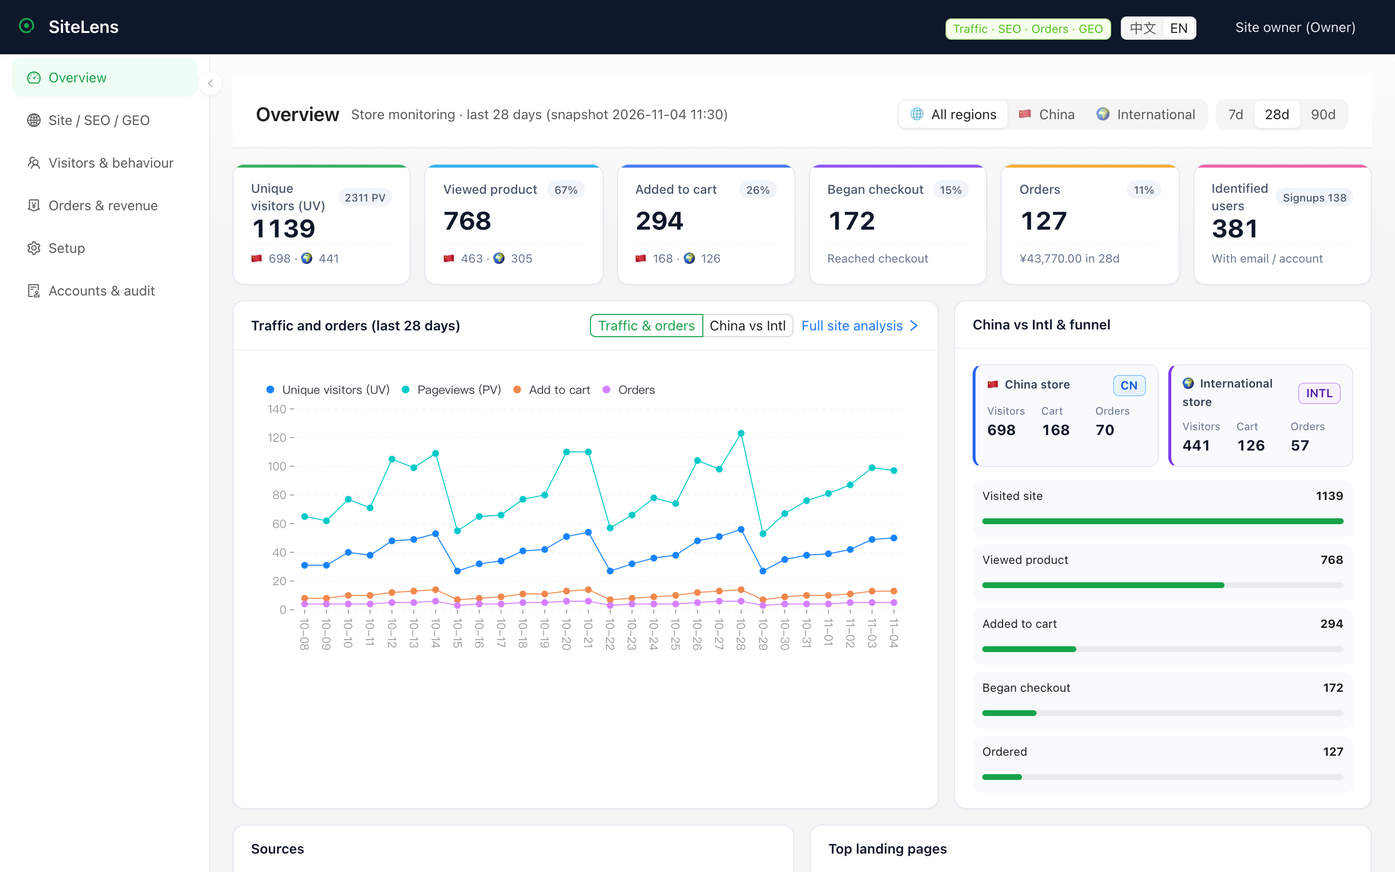
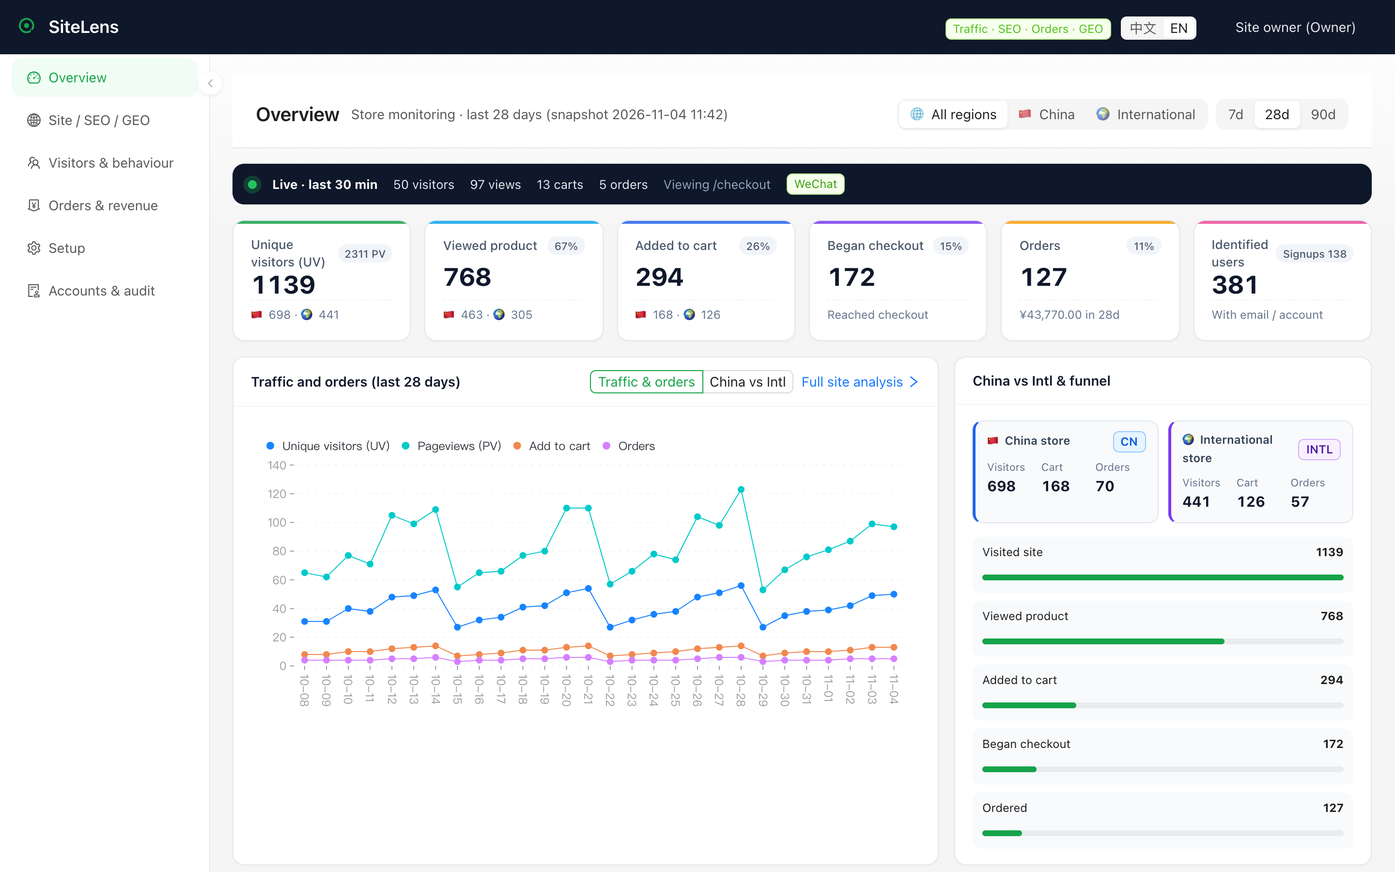
feat: realtime strip, GEO share of voice, AOV and abandoned carts
Competitor pass against Umami/Metorik/GEO trackers: the data for
realtime, competitor share of voice, average order value, repeat
buyers, and abandoned checkouts was already stored but never shown.
Surface all of it, add previous-period plumbing, a CI badge and a
one-minute Docker try-it line, and mark the shipped items on the
roadmap.

diff --git a/web/src/pages/overview.jsx b/web/src/pages/overview.jsx
@@ -4,13 +4,14 @@ import { Col, Progress, Radio, Row, Space, Tag } from "antd";
 import { useMemo, useState } from "react";
 import { useNavigate } from "react-router-dom";
 import { api, money, pct, time } from "../api";
-import { DailyLines, DaysSwitch, Kpis, LoadError, RankTable, RegionSwitch, SourceTag, useLoad } from "../components";
-import { useT } from "../i18n";
+import { DailyLines, DaysSwitch, deviceLabel, Kpis, LoadError, RankTable, RegionSwitch, SourceTag, useLoad } from "../components";
+import { useLang, useT } from "../i18n";
 
 const FUNNEL_EN = { visit: "Visited site", product: "Viewed product", cart: "Added to cart", checkout: "Began checkout", order: "Ordered" };
 
 export function OverviewPage() {
   const t = useT();
+  const { isEn } = useLang();
   const navigate = useNavigate();
   const [days, setDays] = useState(28);
   const [region, setRegion] = useState("all");
@@ -31,6 +32,13 @@ export function OverviewPage() {
   }, [s, chartMode]);
   const top = s?.funnel?.[0]?.count || 0;
   const revenue = extra.data?.revenue;
+  const live = extra.data?.live;
+  const prev = s?.previous || {};
+  const delta = (now_, before) => {
+    if (!before) return "";
+    const change = Math.round(((now_ - before) / before) * 100);
+    return `${change >= 0 ? "▲" : "▼"} ${Math.abs(change)}% ${t("vs 上期", "vs prev")}`;
+  };
 
   return (
     <PageContainer
@@ -43,15 +51,27 @@ export function OverviewPage() {
       }
     >
       <LoadError error={site.error} />
+      {live && (
+        <div className="sl-live-strip">
+          <span className="sl-live-dot" />
+          <strong>{t(`实时 · 近 ${live.minutes} 分钟`, `Live · last ${live.minutes} min`)}</strong>
+          <span>{live.visitors} {t("访客", "visitors")}</span>
+          <span>{live.views} {t("浏览", "views")}</span>
+          <span>{live.carts} {t("加购", "carts")}</span>
+          <span>{live.orders} {t("下单", "orders")}</span>
+          {live.top_pages?.[0] && <span className="sl-live-top">{t("正在看", "Viewing")} {live.top_pages[0].name}</span>}
+          {live.top_sources?.[0] && <SourceTag value={live.top_sources[0].name} />}
+        </div>
+      )}
       <Kpis
         loading={site.loading}
         cols={6}
         items={[
-          { title: t("独立访客 (UV)", "Unique visitors (UV)"), value: totalVisitors, badge: t(`浏览 ${s?.site?.views ?? 0} PV`, `${s?.site?.views ?? 0} PV`), hint: `🇨🇳 ${regCn.site_visitors ?? 0} · 🌍 ${regIntl.site_visitors ?? 0}`, color: "#16a34a", onClick: () => navigate("/site") },
-          { title: t("看商品", "Viewed product"), value: funnelMap.product ?? 0, badge: t(`转化 ${pct(funnelMap.product, totalVisitors)}`, pct(funnelMap.product, totalVisitors)), hint: `🇨🇳 ${regCn.product ?? 0} · 🌍 ${regIntl.product ?? 0}`, color: "#0ea5e9", onClick: () => navigate("/site") },
-          { title: t("加入购物车", "Added to cart"), value: funnelMap.cart ?? 0, badge: t(`转化 ${pct(funnelMap.cart, totalVisitors)}`, pct(funnelMap.cart, totalVisitors)), hint: `🇨🇳 ${regCn.cart ?? 0} · 🌍 ${regIntl.cart ?? 0}`, color: "#2563eb", onClick: () => navigate("/visitors") },
-          { title: t("开始结账", "Began checkout"), value: funnelMap.checkout ?? 0, badge: t(`转化 ${pct(funnelMap.checkout, totalVisitors)}`, pct(funnelMap.checkout, totalVisitors)), hint: t("进入下单页的访客", "Reached checkout"), color: "#7c3aed", onClick: () => navigate("/orders") },
-          { title: t("完成下单", "Orders"), value: funnelMap.order ?? 0, badge: t(`转化 ${pct(funnelMap.order, totalVisitors)}`, pct(funnelMap.order, totalVisitors)), hint: revenue ? t(`近 ${days} 天 ${money(revenue.d30_cents)}`, `${money(revenue.d30_cents)} in ${days}d`) : t("已支付订单", "Paid orders"), color: "#f59e0b", onClick: () => navigate("/orders") },
+          { title: t("独立访客 (UV)", "Unique visitors (UV)"), value: totalVisitors, badge: t(`浏览 ${s?.site?.views ?? 0} PV`, `${s?.site?.views ?? 0} PV`), hint: `🇨🇳 ${regCn.site_visitors ?? 0} · 🌍 ${regIntl.site_visitors ?? 0}`, sub: delta(totalVisitors, prev.visitors), color: "#16a34a", onClick: () => navigate("/site") },
+          { title: t("看商品", "Viewed product"), value: funnelMap.product ?? 0, badge: t(`转化 ${pct(funnelMap.product, totalVisitors)}`, pct(funnelMap.product, totalVisitors)), hint: `🇨🇳 ${regCn.product ?? 0} · 🌍 ${regIntl.product ?? 0}`, sub: delta(funnelMap.product ?? 0, prev.product), color: "#0ea5e9", onClick: () => navigate("/site") },
+          { title: t("加入购物车", "Added to cart"), value: funnelMap.cart ?? 0, badge: t(`转化 ${pct(funnelMap.cart, totalVisitors)}`, pct(funnelMap.cart, totalVisitors)), hint: `🇨🇳 ${regCn.cart ?? 0} · 🌍 ${regIntl.cart ?? 0}`, sub: delta(funnelMap.cart ?? 0, prev.cart), color: "#2563eb", onClick: () => navigate("/visitors") },
+          { title: t("开始结账", "Began checkout"), value: funnelMap.checkout ?? 0, badge: t(`转化 ${pct(funnelMap.checkout, totalVisitors)}`, pct(funnelMap.checkout, totalVisitors)), hint: t("进入下单页的访客", "Reached checkout"), sub: delta(funnelMap.checkout ?? 0, prev.checkout), color: "#7c3aed", onClick: () => navigate("/orders") },
+          { title: t("完成下单", "Orders"), value: funnelMap.order ?? 0, badge: t(`转化 ${pct(funnelMap.order, totalVisitors)}`, pct(funnelMap.order, totalVisitors)), hint: revenue ? t(`近 ${days} 天 ${money(revenue.d30_cents)}`, `${money(revenue.d30_cents)} in ${days}d`) : t("已支付订单", "Paid orders"), sub: delta(funnelMap.order ?? 0, prev.order), color: "#f59e0b", onClick: () => navigate("/orders") },
           { title: t("已识别用户", "Identified users"), value: extra.data?.users?.identified ?? 0, badge: t(`注册 ${extra.data?.users?.signed_up ?? 0}`, `Signups ${extra.data?.users?.signed_up ?? 0}`), hint: t("带邮箱 / 账号的访客", "With email / account"), color: "#ec4899", onClick: () => navigate("/visitors") },
         ]}
       />
@@ -107,11 +127,14 @@ export function OverviewPage() {
         </Col>
       </Row>
       <Row gutter={[16, 16]}>
-        <Col xs={24} md={12}>
+        <Col xs={24} md={8}>
           <RankTable title={t("来源", "Sources")} height={240} rows={s?.site?.referrers} columns={[{ title: t("来源", "Source"), dataIndex: "name", render: (v) => <SourceTag value={v} /> }, { title: t("访客", "Visitors"), dataIndex: "visitors", width: 70, align: "right" }]} />
         </Col>
-        <Col xs={24} md={12}>
+        <Col xs={24} md={8}>
           <RankTable title={t("热门落地页", "Top landing pages")} height={240} rows={s?.site?.landings} columns={[{ title: t("路径", "Path"), dataIndex: "name", ellipsis: true }, { title: t("访客", "Visitors"), dataIndex: "visitors", width: 70, align: "right" }]} />
+        </Col>
+        <Col xs={24} md={8}>
+          <RankTable title={t("设备 / 浏览器", "Devices")} height={240} rows={s?.site?.devices} columns={[{ title: t("设备", "Device"), dataIndex: "name", render: (v) => deviceLabel(v, isEn) }, { title: t("访客", "Visitors"), dataIndex: "visitors", width: 70, align: "right" }]} />
         </Col>
       </Row>
     </PageContainer>

diff --git a/web/src/pages/site.jsx b/web/src/pages/site.jsx
@@ -199,6 +199,11 @@ function GeoPanel({ geo, isOwner }) {
           <Tag color="orange">{t("待巡检", "Due")} {summary.due_platforms ?? 0}</Tag>
           <Tag color="green">{t("官网被引用", "Site cited")} {summary.owned_cited_count ?? 0}</Tag>
           <Tag color="purple">{t("品牌提及", "Brand mentions")} {summary.brand_mention_count ?? 0}</Tag>
+          <Tag color="magenta">{t("可见度", "Visibility")} {summary.visibility_score ?? 0} / 100</Tag>
+          <Tag color="volcano">{t("声量份额", "Share of voice")} {summary.share_of_voice_pct ?? 0}%</Tag>
+          {(summary.competitors || []).slice(0, 3).map((c) => (
+            <Tag key={c.name}>{t("竞品", "Competitor")} {c.name} · {c.mentions}</Tag>
+          ))}
         </Space>
         {isOwner && (
           <Space>
@@ -237,6 +242,7 @@ function GeoPanel({ geo, isOwner }) {
           { title: t("摘要", "Answer excerpt"), dataIndex: "answer_excerpt", ellipsis: true },
           { title: t("引用", "Cited"), dataIndex: "cited", width: 80, render: (v) => (v ? <Tag color="green">{t("是", "Yes")}</Tag> : t("否", "No")) },
           { title: t("品牌", "Brand"), dataIndex: "brand_mentioned", width: 80, render: (v) => (v ? t("是", "Yes") : t("否", "No")) },
+          { title: t("竞品提及", "Competitors"), dataIndex: "competitors", width: 150, render: (list) => (list?.length ? list.map((name) => <Tag key={name} color="red">{name}</Tag>) : "—") },
         ]}
       />
       <Modal title={t("GEO 提问词与 Agent 接口", "GEO prompts & agent API")} open={open} onCancel={() => setOpen(false)} footer={null} width={760}>

diff --git a/web/src/pages/orders.jsx b/web/src/pages/orders.jsx
@@ -32,12 +32,13 @@ export function OrdersPage() {
       <LoadError error={summary.error} />
       <Kpis
         loading={summary.loading}
-        cols={4}
+        cols={5}
         items={[
           { title: t("本月收入", "Revenue this month"), value: s ? money(s.month_cents) : "¥0.00", hint: t("当月已支付", "Paid this month"), color: "#16a34a" },
           { title: t(`近 ${days} 天收入`, `Revenue, last ${days}d`), value: s ? money(s.d30_cents) : "¥0.00", badge: t(`${s?.orders_d30 ?? 0} 笔`, `${s?.orders_d30 ?? 0} orders`), hint: t("已支付额", "Paid total"), color: "#2563eb" },
           { title: t("累计收入", "All-time revenue"), value: s ? money(s.total_cents) : "¥0.00", hint: t("历史已支付", "All paid"), color: "#7c3aed" },
-          { title: t("成交笔数", "Paid orders"), value: s?.orders_d30 ?? 0, hint: t("近窗口已支付订单", "Paid in window"), color: "#f59e0b" },
+          { title: t("客单价", "Avg order value"), value: s ? money(s.aov_cents) : "¥0.00", hint: t("近窗口平均每笔", "Per paid order in window"), color: "#0ea5e9" },
+          { title: t("成交笔数", "Paid orders"), value: s?.orders_d30 ?? 0, hint: t(`复购客户 ${s?.repeat_customers ?? 0} · 退款 ${s?.refunded ?? 0}`, `Repeat buyers ${s?.repeat_customers ?? 0} · Refunds ${s?.refunded ?? 0}`), color: "#f59e0b" },
         ]}
       />
       <Row gutter={[16, 16]} style={{ marginBottom: 16 }}>

diff --git a/web/src/pages/visitors.jsx b/web/src/pages/visitors.jsx
@@ -39,13 +39,14 @@ export function VisitorsPage() {
       <LoadError error={summary.error} />
       <Kpis
         loading={summary.loading}
-        cols={5}
+        cols={6}
         items={[
           { title: t("访客", "Visitors"), value: s.visitors, hint: t(`国内 ${s.cn ?? 0} · 海外 ${s.intl ?? 0}`, `CN ${s.cn ?? 0} · Intl ${s.intl ?? 0}`), color: "#16a34a" },
           { title: t("已识别账号", "Identified"), value: s.identified, hint: t("带邮箱或用户 ID", "With email or user ID"), color: "#0ea5e9" },
           { title: t("新注册", "Signups"), value: s.signed_up, hint: t("signup 事件", "signup events"), color: "#2563eb" },
           { title: t("加过购物车", "Added to cart"), value: s.cart, hint: t("至少一次加购", "At least one add-to-cart"), color: "#7c3aed" },
           { title: t("完成下单", "Ordered"), value: s.ordered, hint: t("至少一笔订单", "At least one order"), color: "#f59e0b" },
+          { title: t("弃购（结账未下单）", "Abandoned checkout"), value: s.abandoned, hint: t("开始结账但没付款，最值得追回", "Began checkout, never paid"), color: "#dc2626" },
         ]}
       />
       <ProCard bordered bodyStyle={{ paddingTop: 4 }}>

diff --git a/web/src/sitelens.css b/web/src/sitelens.css
@@ -737,3 +737,28 @@ body {
   }
 }
 
+
+.sl-live-strip {
+  display: flex;
+  align-items: center;
+  flex-wrap: wrap;
+  gap: 8px 16px;
+  background: #0f172a;
+  color: #e2e8f0;
+  border-radius: 12px;
+  padding: 10px 16px;
+  margin-bottom: 16px;
+  font-size: 13px;
+}
+.sl-live-strip strong { color: #fff; }
+.sl-live-dot {
+  width: 9px; height: 9px; border-radius: 999px; background: #22c55e;
+  box-shadow: 0 0 0 0 rgba(34, 197, 94, 0.55);
+  animation: sl-pulse 1.6s infinite;
+}
+@keyframes sl-pulse {
+  0% { box-shadow: 0 0 0 0 rgba(34, 197, 94, 0.55); }
+  70% { box-shadow: 0 0 0 8px rgba(34, 197, 94, 0); }
+  100% { box-shadow: 0 0 0 0 rgba(34, 197, 94, 0); }
+}
+.sl-live-top { color: #94a3b8; }

diff --git a/sitelens/analytics.py b/sitelens/analytics.py
@@ -370,6 +370,25 @@ def build_summary(db: Session, *, days: int = 28, scope: str = "human", region: 
             }
         )
 
+    # Previous equal-length window, for period-over-period deltas on the KPI cards.
+    prev_start = start - timedelta(days=days)
+    prev_stmt = select(Event.name, Event.visitor_id).where(
+        Event.at >= prev_start, Event.at < start, _scope_filter(scope)
+    )
+    if region in {"cn", "intl"}:
+        prev_stmt = prev_stmt.where(Event.region == region)
+    prev_sets: dict[str, set[str]] = {"pageview": set(), "view_item": set(), "add_to_cart": set(), "begin_checkout": set(), "purchase": set()}
+    for name_, vid_ in db.execute(prev_stmt).all():
+        if name_ in prev_sets and vid_:
+            prev_sets[name_].add(vid_)
+    previous = {
+        "visitors": len(prev_sets["pageview"]),
+        "product": len(prev_sets["view_item"]),
+        "cart": len(prev_sets["add_to_cart"]),
+        "checkout": len(prev_sets["begin_checkout"]),
+        "order": len(prev_sets["purchase"]),
+    }
+
     identified = db.scalar(
         select(func.count()).select_from(Visitor).where(Visitor.account != "", Visitor.last_at >= start)
     ) or 0
@@ -393,6 +412,7 @@ def build_summary(db: Session, *, days: int = 28, scope: str = "human", region: 
             "landings": _rank(landings),
             "pages": _rank(pages),
         },
+        "previous": previous,
         "users": {
             "identified": identified,
             "signed_up": len(_visitor_ids(db, days=days, region=region, scope=scope, name="signup")),
@@ -675,6 +695,38 @@ def users_summary(db: Session, *, region: str = "all") -> dict[str, Any]:
         "signed_up": sum(1 for row in rows if row.signed_up),
         "ordered": sum(1 for row in rows if row.ordered),
         "cart": sum(1 for row in rows if row.added_cart),
+        "abandoned": sum(1 for row in rows if row.began_checkout and not row.ordered),
         "cn": sum(1 for row in rows if row.region == "cn"),
         "intl": sum(1 for row in rows if row.region == "intl"),
+    }
+
+
+def build_live(db: Session, *, minutes: int = 30) -> dict[str, Any]:
+    """Realtime strip: what is happening on the store right now."""
+    minutes = max(1, min(24 * 60, int(minutes or 30)))
+    start = utcnow() - timedelta(minutes=minutes)
+    stmt = select(Event).where(Event.at >= start, Event.kind == "human")
+    rows = list(db.scalars(stmt))
+    visitors: set[str] = set()
+    pages: Counter[str] = Counter()
+    sources: Counter[str] = Counter()
+    carts = 0
+    orders = 0
+    for event in rows:
+        visitors.add(event.visitor_id)
+        if event.name == "pageview":
+            pages[event.path or "/"] += 1
+            sources[event.source or "直接访问"] += 1
+        elif event.name == "add_to_cart":
+            carts += 1
+        elif event.name == "purchase":
+            orders += 1
+    return {
+        "minutes": minutes,
+        "visitors": len(visitors),
+        "views": sum(pages.values()),
+        "carts": carts,
+        "orders": orders,
+        "top_pages": _rank(pages, 5),
+        "top_sources": _rank(sources, 5),
     }

diff --git a/sitelens/geo.py b/sitelens/geo.py
@@ -2,6 +2,7 @@ from __future__ import annotations
 
 import json
 import re
+from collections import Counter
 from datetime import datetime, timedelta, timezone
 from typing import Any
 from urllib.parse import urlparse
@@ -347,6 +348,7 @@ def geo_report(db: Session) -> dict[str, Any]:
     owned = 0
     brand = 0
     total_queries = 0
+    competitor_counts: Counter = Counter()
     latest = None
     for spec in GEO_PLATFORMS:
         checks = by_platform.get(spec["id"]) or []
@@ -368,6 +370,9 @@ def geo_report(db: Session) -> dict[str, Any]:
             if scored.get("brandMentioned"):
                 brand += 1
                 brand_hits += 1
+            for comp in scored.get("competitorsMentioned") or []:
+                if comp:
+                    competitor_counts[str(comp)] += 1
             ranks = [int(item.get("rank") or 0) for item in scored.get("citations") or [] if item.get("rank")]
             if ranks:
                 best_rank = min(best_rank or ranks[0], min(ranks))
@@ -416,6 +421,10 @@ def geo_report(db: Session) -> dict[str, Any]:
             "owned_cited_count": owned,
             "brand_mention_count": brand,
             "owned_coverage_pct": round((owned / total_queries) * 100) if total_queries else 0,
+            "brand_mention_pct": round((brand / total_queries) * 100) if total_queries else 0,
+            "visibility_score": round(((brand / total_queries) * 0.5 + (owned / total_queries) * 0.5) * 100) if total_queries else 0,
+            "competitors": [{"name": name, "mentions": count} for name, count in competitor_counts.most_common(8)],
+            "share_of_voice_pct": round((brand / (brand + sum(competitor_counts.values()))) * 100) if (brand + sum(competitor_counts.values())) else 0,
         },
         "platforms": platforms,
         "rows": detail_rows,

diff --git a/sitelens/orders.py b/sitelens/orders.py
@@ -196,11 +196,20 @@ def orders_summary(db: Session, *, days: int = 30) -> dict[str, Any]:
         daily[day] = daily.get(day, 0) + row.amount_cents
         label = row.title or row.sku or "未命名商品"
         by_sku[label] = by_sku.get(label, 0) + row.amount_cents
+    customers: dict[str, int] = {}
+    for row in paid:
+        if row.customer:
+            customers[row.customer] = customers.get(row.customer, 0) + 1
+    refunded = [row for row in rows if row.status == "refunded"]
     result = {
         "month_cents": sum(row.amount_cents for row in month),
         "d30_cents": sum(row.amount_cents for row in recent),
         "total_cents": sum(row.amount_cents for row in paid),
         "orders_d30": len(recent),
+        "aov_cents": (sum(row.amount_cents for row in recent) // len(recent)) if recent else 0,
+        "repeat_customers": sum(1 for count in customers.values() if count > 1),
+        "customers": len(customers),
+        "refunded": len(refunded),
         "daily": [{"day": day, "cents": daily[day]} for day in sorted(daily)],
         "by_product": [{"label": name, "cents": cents} for name, cents in sorted(by_sku.items(), key=lambda item: item[1], reverse=True)],
     }

diff --git a/tests/test_hardening.py b/tests/test_hardening.py
@@ -136,6 +136,17 @@ class HardeningTest(unittest.TestCase):
         self.assertEqual(source_of("", "?utm_source=zhihu_answer"), "知乎")
         self.assertEqual(source_of("https://chatgpt.com/share/1", ""), "ChatGPT")
 
+    def test_live_previous_and_geo_share_of_voice(self):
+        owner = self.login()
+        for visitor, name in (("live-a", "pageview"), ("live-a", "add_to_cart"), ("live-b", "pageview")):
+            res = owner.post("/api/collect", json={"name": name, "visitor_id": visitor, "path": "/", "user_agent": "Mozilla/5.0"})
+            self.assertLess(res.status_code, 500)
+        overview = owner.get("/api/admin/overview?days=28").json()
+        self.assertIn("live", overview)
+        self.assertGreaterEqual(overview["live"]["visitors"], 1)
+        summary = owner.get("/api/admin/site/summary?days=28").json()
+        self.assertIn("previous", summary)
+
     def test_mask_ip_hides_last_octet(self):
         from sitelens.analytics import mask_ip
 

diff --git a/sitelens/routes_admin.py b/sitelens/routes_admin.py
@@ -9,6 +9,7 @@ from sqlalchemy.orm import Session
 from . import config
 from .analytics import (
     MAX_DAYS,
+    build_live,
     build_search,
     build_summary,
     clamp_days,
@@ -86,7 +87,7 @@ def overview(
     days = _days(days)
     site = build_summary(db, days=days, region=region or "all")
     revenue = orders_summary(db, days=days)
-    return {"site": site, "revenue": revenue, "users": users_summary(db, region=region or "all")}
+    return {"site": site, "revenue": revenue, "users": users_summary(db, region=region or "all"), "live": build_live(db)}
 
 
 @router.get("/site/summary")

diff --git a/docs/roadmap.zh-CN.md b/docs/roadmap.zh-CN.md
@@ -23,7 +23,7 @@ SiteLens 不想同时做成 GA4、Matomo、PostHog 和 Uptime Kuma。
 大致按这个顺序：
 
 1. ~~**英文界面（中英切换）。**~~ **已上线**：后台顶栏可切中文/EN，英文截图见英文 README。剩下的长尾文案继续补齐。
-2. **实时访客。** 「现在谁在店里」（近 5/30 分钟、正在看哪页、什么来源）。Umami/Plausible 用户默认期待这个，我们只有 7/28/90 天。
+2. ~~**实时访客。**~~ **已上线**：总览顶部实时条（近 30 分钟访客/浏览/加购/下单、正在看的页、第一来源）。独立的实时大屏页还未做。
 3. **多店铺。** 一个后台管多个店/品牌，可切换。今天一个 SiteLens 只能管一对国内+海外站，代运营和双品牌直接卡住。
 4. **投放归因。** 拆 `utm_medium` / `utm_campaign` / `utm_term`（今天只认到来源），并能看每个活动、每个 SKU 的落地→加购→付款。
 5. **导出、保留、备份。** 访客/订单/爬虫的 CSV/API 导出、可配的数据保留与自动清理、写清楚 SQLite 怎么备份恢复。自托管用户不会把唯一一份数据放黑盒里。
@@ -33,9 +33,9 @@ SiteLens 不想同时做成 GA4、Matomo、PostHog 和 Uptime Kuma。
 ## P1：店主第二批会问的
 
 - **路径与留存：** 访客路径（落地→商品→加购）、新客/回访、跳出与停留。设备/浏览器数据已经存了，要完整露出来；国家/城市只用离线 GeoIP 文件，不调云接口。
-- **电商深度：** 客单价、复购、单品转化率（看了→买了）、弃购名单（开始结账没下单）、按渠道/优惠码看收入。
+- **电商深度：** ~~客单价、复购~~ 已上线；弃购 KPI 已上线（点名名单未做）。还缺：单品转化率（看了→买了）、按渠道/优惠码看收入。
 - **SEO 深度：** Google Search Console + 百度站长数据导入并排爬虫日志、按爬虫状态出 404/坏路径报告、sitemap/robots 健康检查、可选关键词排名快照；tracker 顺手采 Core Web Vitals（LCP/CLS/INP）。
-- **GEO 深度：** 竞品声量占比随时间趋势、单个提问词的历史曲线、情感倾向、更多一键 Agent。今天 GEO 是张表，还不是趋势。
+- **GEO 深度：** ~~可见度分数 + 竞品声量份额~~ 已上线（分数、声量 %、竞品提及标签）。还缺：声量趋势、单提问历史曲线、情感倾向、更多一键 Agent。
 - **一键接入：** Shopify 应用/主题片段、WooCommerce 插件，而不是「自己贴脚本 + 手配 webhook」。
 - **分享：** 只读分享链接、每周自动报表（邮件/webhook 发 PDF 或图片）给合伙人/老板看。
 

diff --git a/docs/roadmap.md b/docs/roadmap.md
@@ -26,9 +26,9 @@ These are the gaps a stranger hits in the first week. Rough order:
 1. ~~**English UI (i18n toggle).**~~ **Shipped**: a 中文/EN toggle in the
    console header; English screenshots are in the English README. Long-tail
    strings keep being filled in.
-2. **Realtime.** “Who is on the store right now” (last 5/30 min, live page,
-   live source). Umami/Plausible users expect it; SiteLens only has 7/28/90-day
-   windows.
+2. ~~**Realtime.**~~ **Shipped**: a live strip on Overview (visitors / views /
+   carts / orders in the last 30 min, current page, top source). A dedicated
+   realtime page with a live feed is still open.
 3. **Multi-store.** One install, several stores/brands, site switcher. Today
    one SiteLens = one CN+intl pair. Agencies and two-brand operators are stuck.
 4. **Campaign attribution.** Break down `utm_medium` / `utm_campaign` / `utm_term`
@@ -49,14 +49,15 @@ These are the gaps a stranger hits in the first week. Rough order:
 - **Journey & retention:** visitor path (landing → product → cart), new vs
   returning, bounce / time-on-site. Device/browser/OS data is already stored;
   surface it fully (country/city only with an offline GeoIP file, no cloud lookup).
-- **Ecommerce depth:** AOV, repeat buyers, product conversion rate
-  (view → paid per SKU), abandoned-checkout list (began checkout, no order),
-  revenue by channel/coupon.
+- **Ecommerce depth:** ~~AOV, repeat buyers~~ **shipped**; abandoned-checkout
+  KPI **shipped** (the named list is open). Still open: product conversion rate
+  (view → paid per SKU) and revenue by channel/coupon.
 - **SEO depth:** Google Search Console + 百度站长 data import next to crawl
   logs, 404/broken-path report from crawl status, sitemap/robots health check,
   optional keyword rank snapshots. Core Web Vitals (LCP/CLS/INP) via tracker.
-- **GEO depth:** competitor share-of-voice trend over time, per-prompt history
-  chart, sentiment, more one-click agent providers. Today GEO is a table, not a trend.
+- **GEO depth:** ~~visibility score + competitor share of voice~~ **shipped**
+  (score, SoV %, competitor mention tags). Still open: SoV trend over time,
+  per-prompt history, sentiment, more one-click agent providers.
 - **One-click install:** Shopify app/theme snippet and a WooCommerce plugin,
   instead of “paste this script + configure a webhook by hand”.
 - **Sharing:** read-only share link for a dashboard, scheduled weekly report
